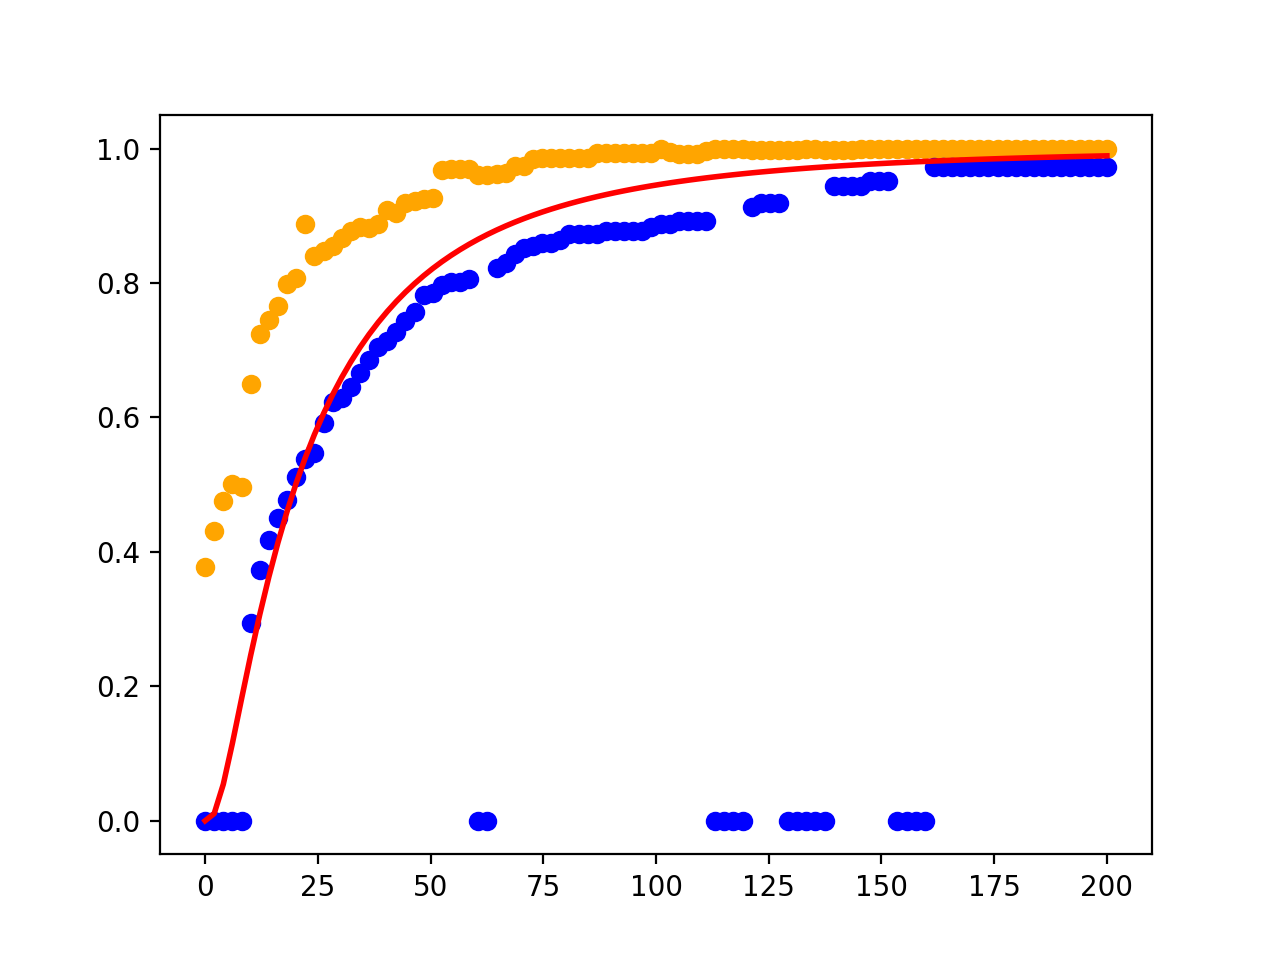
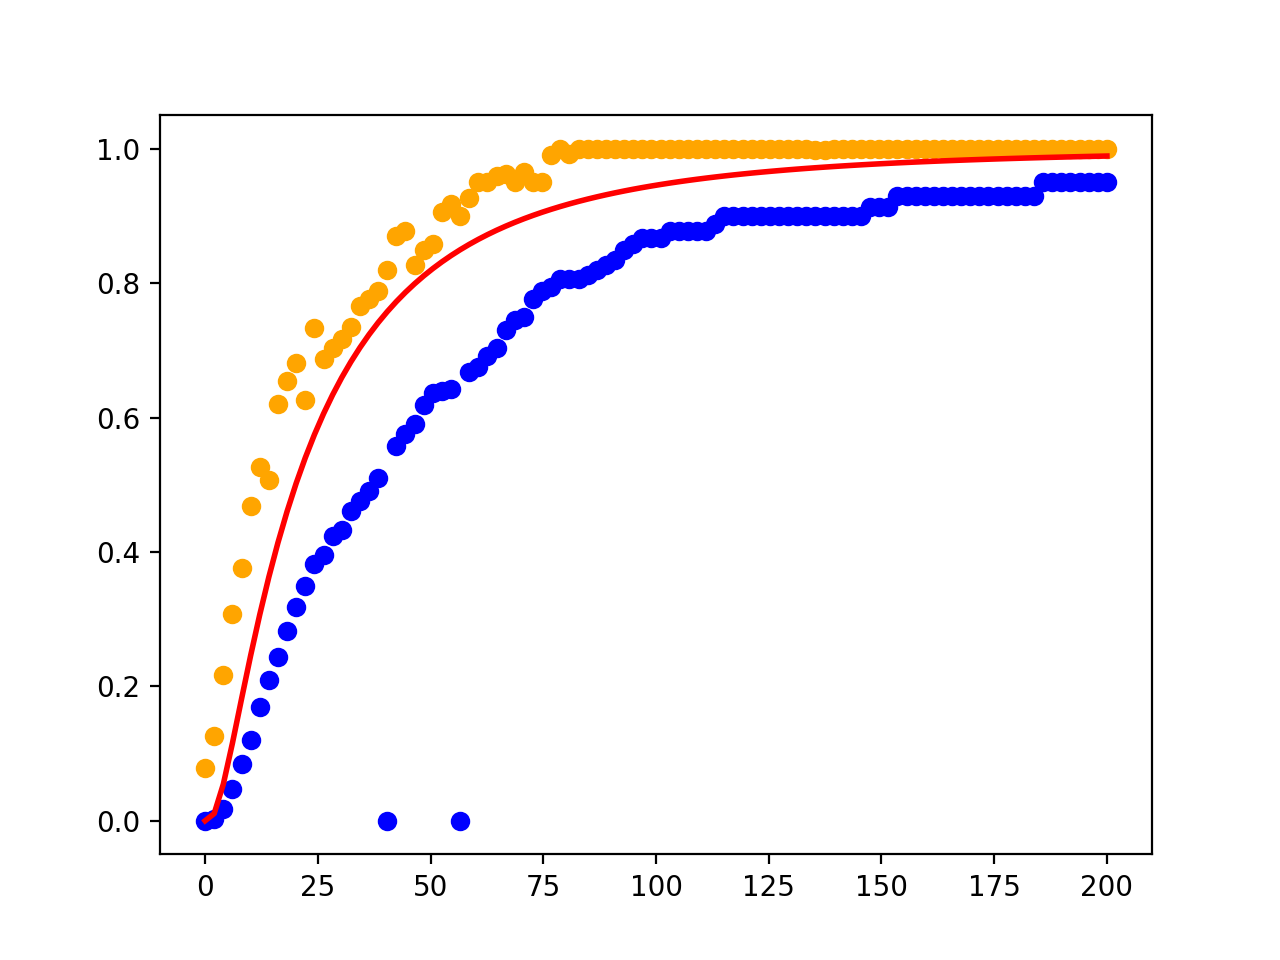
update

diff --git a/haile_tamer_monteCarlo.py b/haile_tamer_monteCarlo.py
@@ -20,7 +20,7 @@ def run_T_simulations(T, n, lbda, increment, distribution='lognormal'):
 
     return all_values, all_bids, max_bid_dicts
 
-all_values, all_bids, max_bid_dicts = run_T_simulations(T=100, n=2, lbda=0.1, increment=0.1, distribution='lognormal')
+all_values, all_bids, max_bid_dicts = run_T_simulations(T=400, n=2, lbda=0.1, increment=0.1, distribution='lognormal')
 
 print(max_bid_dicts)
 
